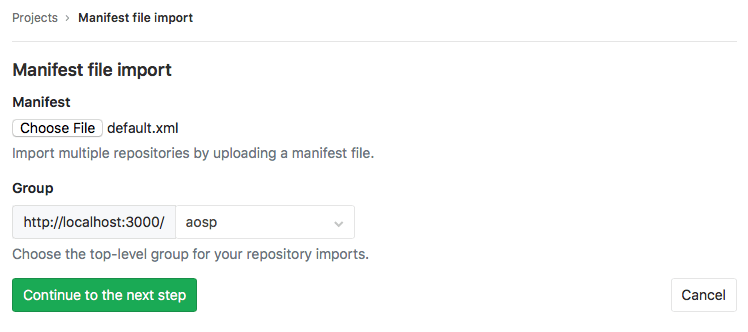
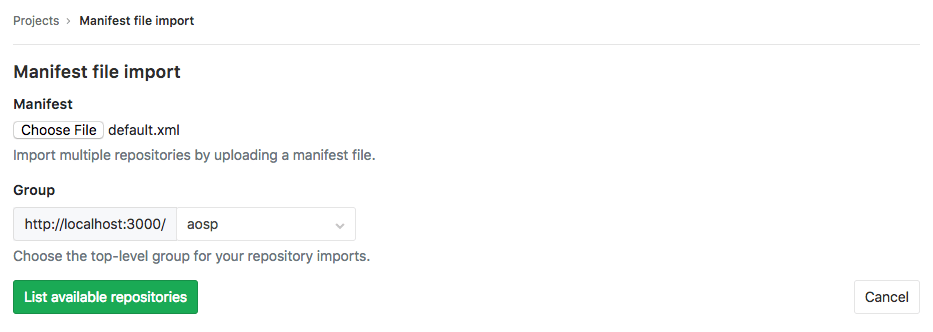
Rename button at manifest import form

diff --git a/spec/features/import/manifest_import_spec.rb b/spec/features/import/manifest_import_spec.rb
@@ -16,7 +16,7 @@ feature 'Import multiple repositories by uploading a manifest file', :js, :postg
     visit new_import_manifest_path
 
     attach_file('manifest', Rails.root.join('spec/fixtures/aosp_manifest.xml'))
-    click_on 'Continue to the next step'
+    click_on 'List available repositories'
 
     expect(page).to have_button('Import all repositories')
     expect(page).to have_content('https://android-review.googlesource.com/platform/build/blueprint')
@@ -26,7 +26,7 @@ feature 'Import multiple repositories by uploading a manifest file', :js, :postg
     visit new_import_manifest_path
 
     attach_file('manifest', Rails.root.join('spec/fixtures/aosp_manifest.xml'))
-    click_on 'Continue to the next step'
+    click_on 'List available repositories'
 
     page.within(first_row) do
       click_on 'Import'

diff --git a/doc/user/project/import/manifest.md b/doc/user/project/import/manifest.md
@@ -10,7 +10,7 @@ You can do it by following next steps:
 1. Click on the **Manifest file** button
 1. Provide GitLab with a manifest xml file
 1. Select a group you want to import to (you need to create a group first if you don't have one)
-1. Click **Continue to the next step** 
+1. Click **List available repositories** 
 1. You will be redirected to the import status page with projects list based on manifest file
 1. Check the list and click 'Import all repositories' to start import.
 
